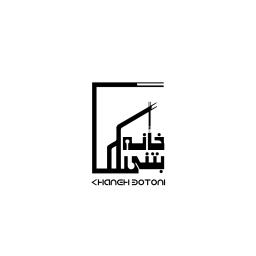
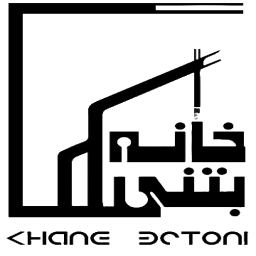
final commit

diff --git a/app/layout.tsx b/app/layout.tsx
@@ -9,7 +9,7 @@ const inter = Inter({ subsets: ["latin"] });
 export const metadata: Metadata = {
   title: "خانه بتنی",
   description: "شرکت مهندسی خانه بتنی",
-  icons: { icon: "./icon-384x384.png" }
+  icons: { icon: "./icon-512x512.png" }
 };
 
 export default function RootLayout({
